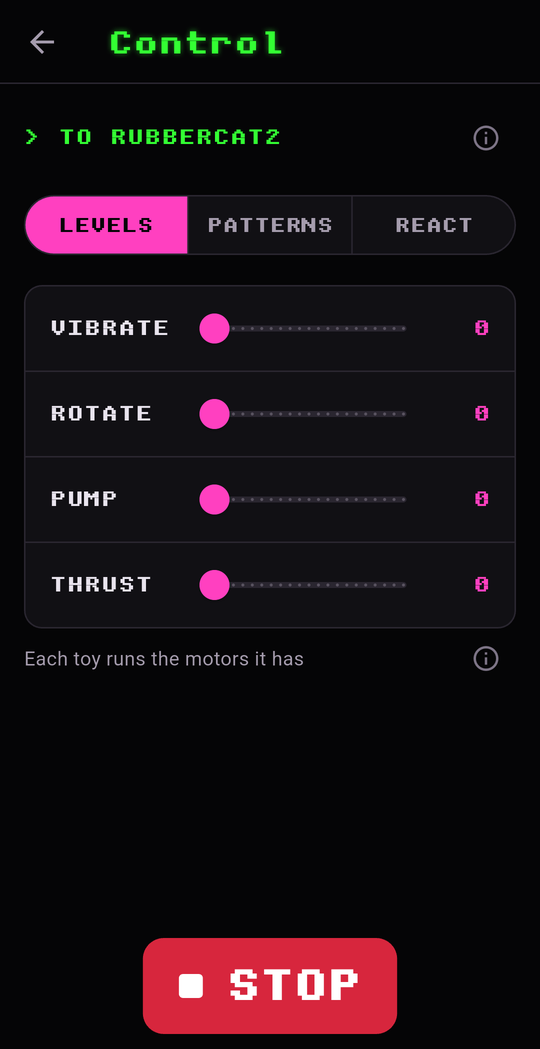
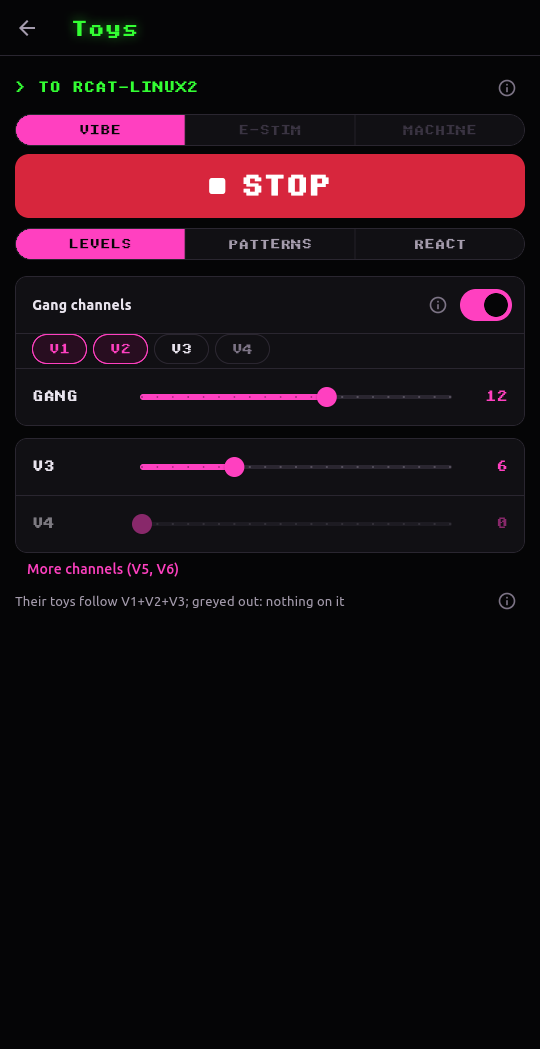
Docs: HiveMind Control's screenshots, and Setup: Toys'
The control, menu, chooser, capabilities and Allow screenshots show
HiveMind Control's areas and Vibe in place of Lovense, and Setup: Toys
has one of its own: an Edge and a Nora on channels, and the screen's
controls.

diff --git a/docs/app/control.md b/docs/app/control.md
@@ -2,7 +2,7 @@
 
 HiveMind Control runs parts of other drones' units, through those units: over the server or over direct mode, wherever they are.  It has areas: **Toys**, their [Vibe toys](../features/toys.md) for now (e-stim and machines are planned), and **Display unit**, words on their [Terminal](text.md#their-display) (pictures and sounds are planned).  It only works on what their wearers have allowed you (see [Permissions](permissions.md)); if they haven't, your first command asks them.
 
-<img src="../images/app/control.png" width="300" alt="Control for one drone: Levels, Patterns and React, a slider for each kind of motor, and STOP">
+<img src="../images/app/control.png" width="300" alt="Toys for RCat-Linux2: the Vibe tab, STOP, and Levels with V1 and V2 ganged at 12, V3 at 6, and V4 greyed out">
 
 Back to [the app](README.md).  Running *your own* toys is on your unit's [Toys](../features/toys.md) feature, or the [Remote](remote.md) tab's *Toys*; which channel each of your toys follows is in [Setup: Toys](#setup-toys).
 
@@ -10,13 +10,13 @@ Back to [the app](README.md).  Running *your own* toys is on your unit's [Toys](
 
 The **HiveMind Control button** (a remote) at the top of a [Text](text.md) conversation opens a menu of what you can control, by area: under *Toys*, **Vibe**, their toys; under *Display unit*, **Terminal**, words on their display.  It's for whoever that conversation is with, which it says at the top.  From a person's conversation it's their unit, sent both ways they can be reached (their unit does each once, by whichever way it allows); from a channel's, the units of everyone in it; from *Broadcast*, everyone who can hear you.
 
-<img src="../images/app/control_menu.png" width="300" alt="The Control menu in a conversation: Terminal, and Lovense greyed out">
+<img src="../images/app/control_menu.png" width="300" alt="The HiveMind Control menu in a conversation: Vibe under Toys, Terminal under Display unit">
 
 For one person, what they don't let others control is greyed out: they've set it to *Nobody*, or for Vibe, have no toy connected.  Each unit says what it lets others control (see [What others see](permissions.md#what-others-see)).  In a channel, everything is, as each person in it may allow different things.
 
 The **Control** button on someone's card, from the [Voice](voice.md#whos-there) list, opens the same choice as a screen, by area: each one, whether anyone can control it or only people they allow, and what's greyed out.
 
-<img src="../images/app/control_choose.png" width="300" alt="Control, to RCat-Linux: Terminal, only people they allow; Lovense greyed out, not available">
+<img src="../images/app/control_choose.png" width="300" alt="HiveMind Control, to RCat-Linux2: Vibe under Toys and Terminal under Display unit, both only people they allow">
 
 ## Toys
 
@@ -47,6 +47,8 @@ It's separate from who can [put words on your display](text.md#who-can-put-words
 ## Setup: Toys
 
 Setup's **Toys**, under *Unit*, sets up your own toys for HiveMind Control.  It's there while the app's connected to the unit, and needs the unit's firmware from this release on.
+
+<img src="../images/app/setup_toys.png" width="300" alt="Setup's Toys: an Edge on V1 and V2, a Nora vibrating on V1 and rotating on V3, and screen controls V1, V2 and V3">
 
 - **Channels**: each toy the unit has found, with **Connect** or **Disconnect**, and under it each of its outputs (each motor, the air pump and so on) with the channel it follows: **V1** to **V6**, or **None**, which leaves it to your own controls.  What anyone sends on V1 drives every output on V1, so two toys on one channel move together.  To start with, a toy's first output follows V1, its second V2.  The unit remembers it, by toy.  **Look for toys** finds toys turned on near the unit.  The line under them says which channels others can control.
 - **Screen controls**: the rings around your unit's [Toys](../features/toys.md#screen-controls) screen.  **Lay them out** for up to three, each with a label and the channels it drives together, so one ring can run V1 and V2 at once; **Save** sends them to the unit.  **One per channel** goes back to a ring for each channel a connected toy follows, as it starts.

diff --git a/docs/app/permissions.md b/docs/app/permissions.md
@@ -42,7 +42,7 @@ A request appears when someone who isn't allowed sends you a command for a featu
 - **Accept** asks what to allow them.  The feature they asked for is already ticked; tick others to allow those too, or **Allow all**.  A feature you've set to *NOBODY* can be ticked: it takes effect when you turn it back on.
 - **Decline** leaves everything as it was, and moves them to [Declined](#declined).
 
-<img src="../images/app/permissions_accept.png" width="300" alt="Allow RCat-Linux2 to control: Terminal ticked, Lovense not, and Allow all or Allow">
+<img src="../images/app/permissions_accept.png" width="300" alt="Allow Hal to control: Vibe ticked, Terminal not, and Allow all or Allow">
 
 A request is only made while the app's linked to your unit.  One is taken back by itself if you allow them on the unit, or set the feature to *ANYONE*.
 
@@ -78,7 +78,7 @@ Accepting, declining and allowing are noted too, in pink.  It keeps the last 500
 
 Each unit tells the others what its wearer lets others control: over the server through its app, and over direct mode in the unit's own hello.  It says each feature that's *ALLOWED* or *ANYONE*, and leaves out those set to *NOBODY*, and *Vibe* while no toy is connected.  For Vibe, it also says which channels your toys follow, so their apps grey out the rest.  It says nothing about who in particular you've allowed.
 
-<img src="../images/app/person_capabilities.png" width="300" alt="What RCat-Linux lets others control: Terminal, only people they allow; Lovense, not available">
+<img src="../images/app/person_capabilities.png" width="300" alt="What RCat-Linux2 lets others control: under Toys, Vibe, and under Display unit, Terminal, both only people they allow">
 
 On someone's card ([Voice](voice.md#whos-there)), *Lets others control* shows an icon for each.  Tap it for the whole list: *Anyone can control it*, *Only people they allow*, or *Not available*.  See [HiveMind Control](control.md#sending) for how it's used.
 
